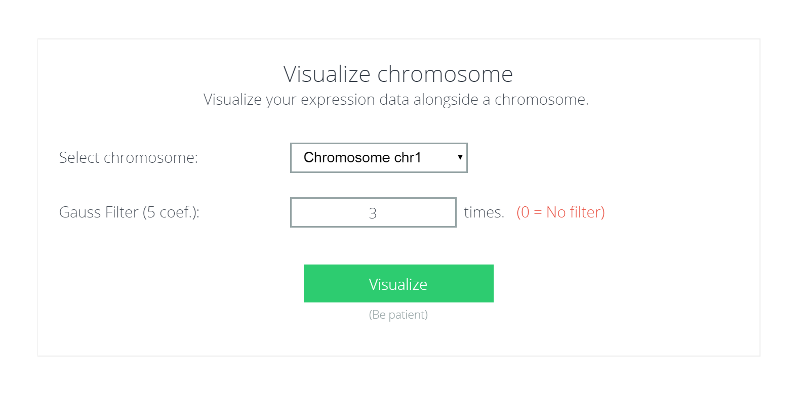
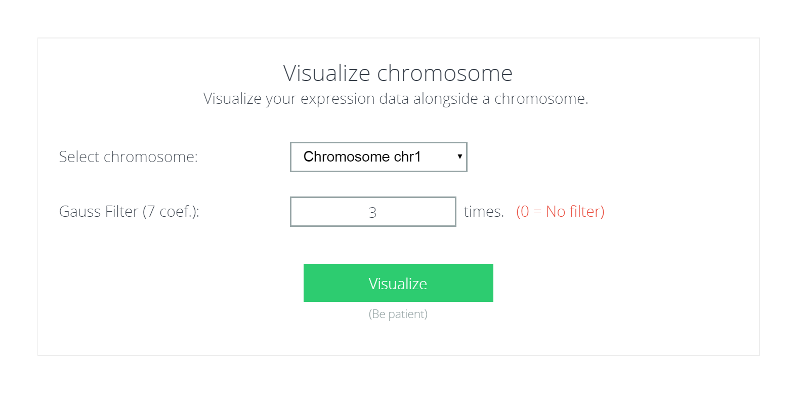
Changed Gauss Filter to 7 coefs

diff --git a/tutorial.php b/tutorial.php
@@ -186,7 +186,7 @@
 					<li>The chromosome in which the gene is encoded (Select chromosome).</li>
 					<li>The systematic identifier of the gene of interest (ORF name) in Select gene.</li>
 					<li>The margins for the representation of the gene, in terms of length of the flanking regions. (Margin). For example, if you select 100 probes for the margin, you will display the entire ORF length + 100 bp up/downstream. If other ORFs are encoded whithin the margins, they will also be displayed.</li>
-					<li>Gauss filter: Smoothing of the signal. Gauss filter of 5 coefficients.</li>
+					<li>Gauss filter: Smoothing of the signal. Gauss filter of 7 coefficients.</li>
 				</ul>
 				TilingScan will open a detailed image of the selected gene:<br><br>
 				<div align="center"><img src="img/tutorial/6.png" border="0"></div>
@@ -214,7 +214,7 @@
 				<ul>
 					<li><b>Chromosome</b>: Chromosome on which the search will be made.</li>
 					<li><b>Strand</b>: Strand on which the search will be made.</li>
-					<li><b>Gauss filter</b>: Smoothing of the signal. Gauss filter of 5 coefficients.</li>
+					<li><b>Gauss filter</b>: Smoothing of the signal. Gauss filter of 7 coefficients.</li>
 					<li><b>Window size</b>: Lenght of the region to search for differences.</li>
 					<li><b>Margin</b>: Number of probes on both sides of the detected region.</li>
 					<li><b>Threshold:</b> Minimum fold-change that is required for a region to be considered of significant change.</li>

diff --git a/project.php b/project.php
@@ -93,7 +93,7 @@
 							<td valign="middle"><?php ListaCHR($dir, '', 1); ?></td>
 						</tr>
 						<tr>
-							<td width="300" height="70" valign="middle">Gauss Filter (5 coef.): </td>
+							<td width="300" height="70" valign="middle">Gauss Filter (7 coef.): </td>
 							<td valign="middle"><input type="text" name="gauss" class="input" value="3">&nbsp; times. 
 							<span class="color-red">&nbsp; (0 = No filter)</span>
 							</td>
@@ -150,7 +150,7 @@
 							</td>
 						</tr>
 						<tr>
-							<td width="300" height="70" valign="middle">Gauss Filter (5 coef.): </td>
+							<td width="300" height="70" valign="middle">Gauss Filter (7 coef.): </td>
 							<td valign="middle"><input type="text" name="gauss" class="input" value="3">&nbsp; times. 
 							<span class="color-red">&nbsp; (0 = No filter)</span>
 							</td>
@@ -203,7 +203,7 @@
 							</td>
 						</tr>
 						<tr>
-							<td width="300" height="70" valign="middle">Gauss Filter (5 coef.): </td>
+							<td width="300" height="70" valign="middle">Gauss Filter (7 coef.): </td>
 							<td valign="middle"><input type="text" name="gauss" class="input" value="3">&nbsp; times. 
 							<span class="color-red">&nbsp; (0 = No filter)</span>
 							</td>
